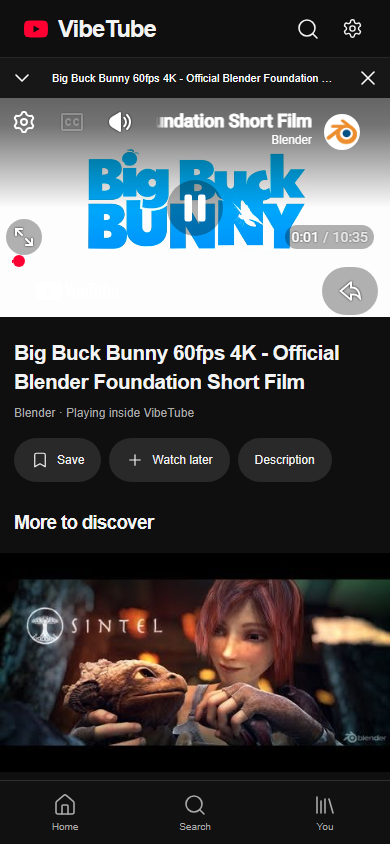
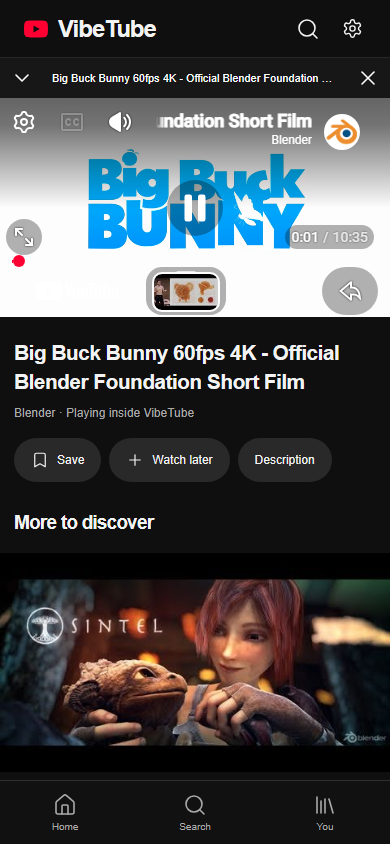
Record published search and playback verification with backend blocker

Changed region(s): [[0.3692, 0.3081, 0.5846, 0.4005], [0.5846, 0.2156, 0.6769, 0.2773]]

diff --git a/docs/DEPLOYMENT.md b/docs/DEPLOYMENT.md
@@ -1,10 +1,10 @@
-# Published in-app playback fix
+# Published VibeTube 3.1
 
-**Live:** https://mustafa1p.github.io/VibeTube-Mobile/?v=3
+**Live:** https://mustafa1p.github.io/VibeTube-Mobile/?v=3.1
 
-Application commit: `b80041e9fc44c30a3f51ebcc166a3b96863042db`.
+Application commit: `a43ce20e144a09ab83a970b7a996740461b50c3c`.
 
-[Successful GitHub Pages build and deployment](https://github.com/Mustafa1p/VibeTube-Mobile/actions/runs/39358084915).
+[Successful GitHub Pages build and deployment](https://github.com/Mustafa1p/VibeTube-Mobile/actions/runs/39360332276). Formatting, PHP syntax, build and eight deterministic tests passed in CI.
 
 ## Actual published-site verification — 20 October 2026
 
@@ -13,13 +13,15 @@ A fresh desktop Chromium session with standalone mode explicitly emulated loaded
 - HTTP 200.
 - The installed view displays the collection and embedded player.
 - No Open YouTube launcher button and no Sign in on YouTube button.
-- Actual video playback advanced to 1.35 seconds inside the iframe, then to 2.46 seconds after navigation to the local library.
+- Actual video playback advanced to 1.45 seconds inside the iframe, then to 2.56 seconds after navigation to the local library.
 - The exact iframe element remained connected during navigation; the top-level origin stayed `https://mustafa1p.github.io`.
 - Saving a video produced one entry in the local saved collection.
 - The application shell reloaded offline.
 - No uncaught application errors were observed.
 
 [Published playback screenshot](screenshots/published-in-app-playing.png).
+
+The published live-search view returned eight public videos through the actual hosting gateway and browser CORS. Experimental HTML5 playback was off by default. The visible Test media server control reported extraction failure, matching the host's YouTube bot/sign-in rejection. No uncaught errors were observed. [Published backend observations](backend-live-verification.json) · [Search screenshot](screenshots/published-live-search.png) · [Backend limitations](BACKEND-VERIFICATION.md).
 
 The embedded player retains YouTube's own native controls and branding. The app itself does not redirect video selections to the official site. Full Google/YouTube account sign-in is unavailable in this architecture and no account-handoff control is exposed.
 

diff --git a/docs/BACKEND-VERIFICATION.md b/docs/BACKEND-VERIFICATION.md
@@ -8,6 +8,7 @@
 | Runtime | PHP with cURL and process execution; yt-dlp 2026.08.19 and Node 22.23.3 |
 | Release integrity | yt-dlp and Node binaries matched official release SHA-256 lists |
 | Live search | 200, eight real results for `Blender open movie` |
+| Published Pages app | Eight live search cards; experimental player off by default; no uncaught errors |
 | CORS | Pages origin accepted; unrelated origin rejected with 403 |
 | Invalid ID / token | 400; a valid but nonexistent ticket returns 410 |
 | Host video extraction | 502; YouTube bot/sign-in rejection for `aqz-KE-bpKQ`, two extraction clients |
@@ -19,6 +20,8 @@
 | YouTube account sign-in | Not implemented |
 
 `python backend/verify.py` performs live endpoint validation and prints sanitized status only. `VIBETUBE_REAL_BACKEND=1 npx playwright test --grep 'real hosting search'` checks real search through a browser. Deterministic tests use intercepted responses for failure recovery; those are not evidence of server media playback.
+
+The deployed Pages app was also checked in a fresh Chromium session. [Published observations](backend-live-verification.json) record real search and the failed server readiness probe. The default embedded player separately advanced from 1.45 to 2.56 seconds across navigation, preserving the same iframe and VibeTube origin; see [playback observations](live-verification.json).
 
 ## Extension adaptation
 
